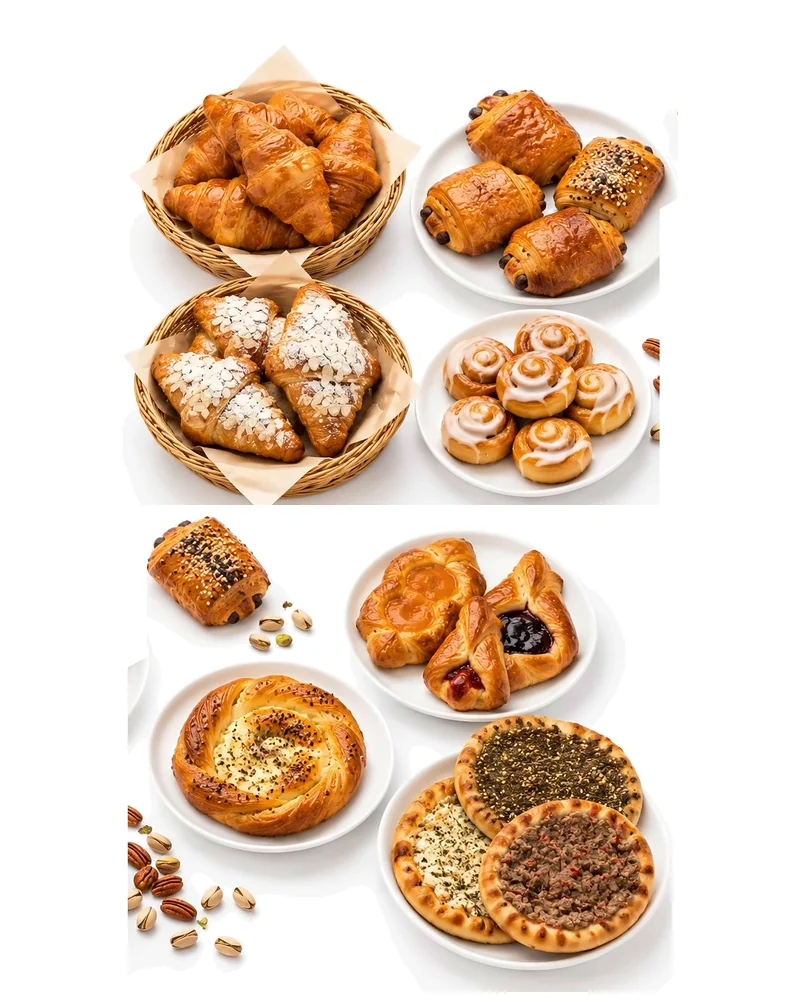
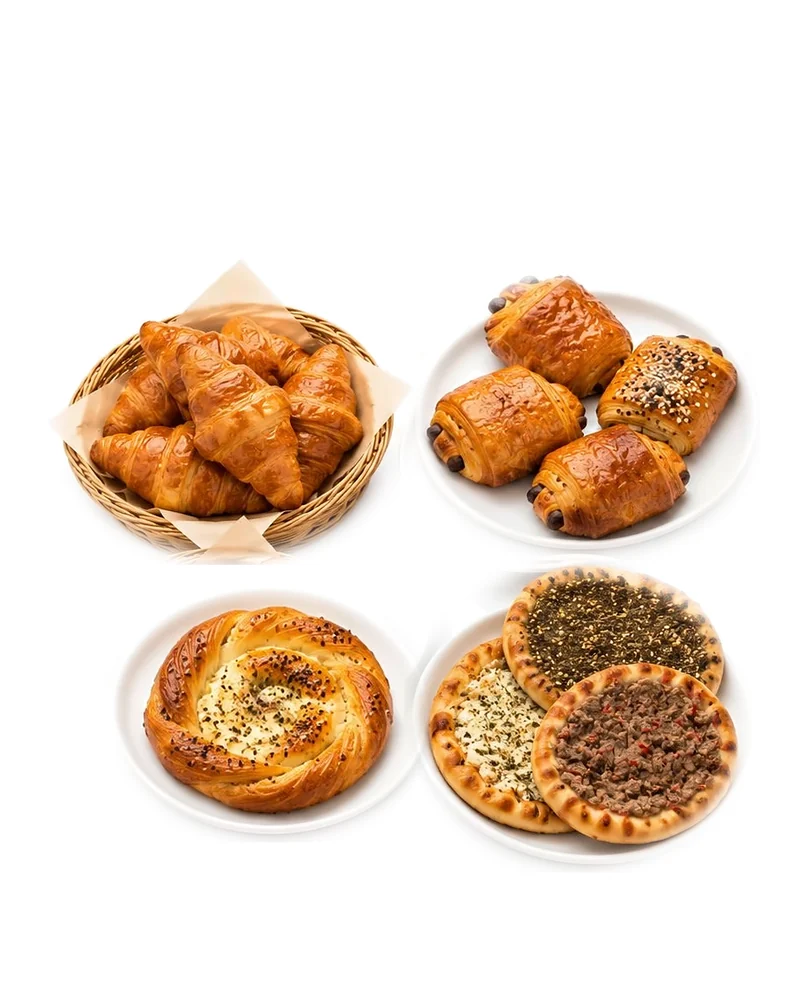
Fresh bakery cover: four items in two rows instead of the whole spread
Claude-Session: https://claude.ai/code/session_01HaM8F3VJv6dgB34RjCmCBJ

diff --git a/abuelfadl-store/src/features/products/CategoryCover.tsx b/abuelfadl-store/src/features/products/CategoryCover.tsx
@@ -217,14 +217,14 @@ function SyrianCover() {
 }
 
 /**
- * "fresh" cover (fresh bakery): the owner's top-down photo of baskets and plates (croissants, pain au chocolat,
- * cinnamon rolls, a cheese swirl, danishes, manakish) kept whole: the white plates match the floor, so instead of a
- * cut-out the photo is multiplied onto the banner (its white turns into the banner colour, shadows stay soft).
+ * "fresh" cover (fresh bakery): four items from the owner's top-down photo — croissant basket, pain au chocolat, cheese
+ * swirl and manakish — in two rows. The white plates match the floor, so instead of cut-outs the picture is multiplied
+ * onto the banner (its white turns into the banner colour, shadows stay soft).
  * Position is the `.cvfr-group` rule.
  */
 function FreshCover() {
   return (
-    <div className="cvd" role="img" aria-label="مخبوزات فريش: كرواسون وبان أو شوكولا وسينابون ودانش ومناقيش">
+    <div className="cvd" role="img" aria-label="مخبوزات فريش: كرواسون وبان أو شوكولا وفطيرة جبنة ومناقيش">
       <div className="cvd-s" aria-hidden="true">
         <span className="cvd-p cvfr-group">
           <img src="/covers/fresh/group.webp" alt="" decoding="async" />

diff --git a/abuelfadl-store/src/styles/24-category-covers.css b/abuelfadl-store/src/styles/24-category-covers.css
@@ -108,5 +108,5 @@
 .cvsy-pistachio{left:50.81%;top:59.00%;width:27.19%;z-index:3;--dl:0.52s}
 
 /* fresh bakery cover (FreshCover): one whole photo multiplied onto the banner, so no drop shadow on its box */
-.cvfr-group{left:5.00%;top:27.00%;width:90.00%;z-index:1;--dl:0.1s;mix-blend-mode:multiply}
+.cvfr-group{left:24.00%;top:18.00%;width:52.00%;z-index:1;--dl:0.1s;mix-blend-mode:multiply}
 .cvfr-group img{filter:none}
